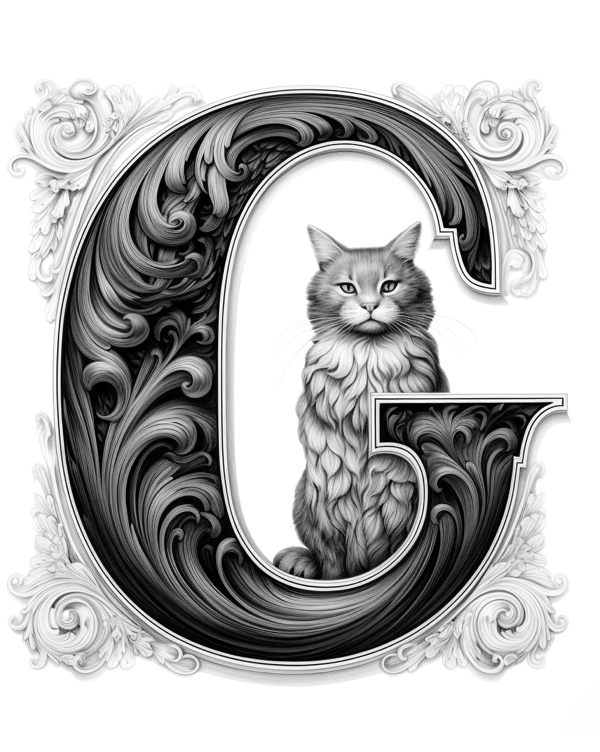
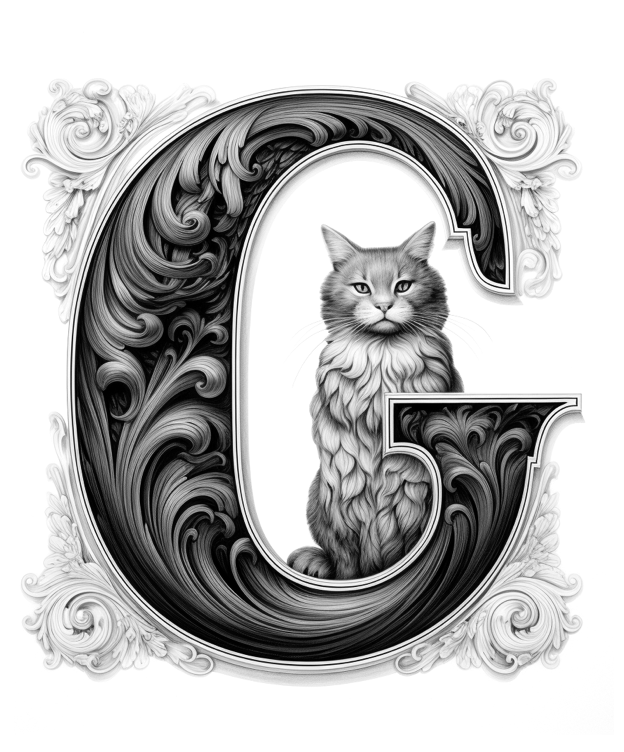
Add G light dropcats

Changed region(s): [[0.0, 0.0918, 0.57, 0.9176], [0.6, 0.0918, 0.96, 0.9176]]

diff --git a/js/head-GENERATED.js b/js/head-GENERATED.js
@@ -3625,5 +3625,25 @@ GW.assetVersions = {
 	"/static/font/drop-cap/dropcat/light/C-4-small-1x.png": "1698101189",
 	"/static/font/drop-cap/dropcat/light/C-4-small-2x.png": "1698101189",
 	"/static/font/drop-cap/dropcat/light/C-5-small-1x.png": "1697741351",
-	"/static/font/drop-cap/dropcat/light/C-5-small-2x.png": "1697741351"
+	"/static/font/drop-cap/dropcat/light/C-5-small-2x.png": "1697741351",
+	"/static/font/drop-cap/dropcat/light/G-1-small-1x.png": "1698132107",
+	"/static/font/drop-cap/dropcat/light/G-1-small-2x.png": "1698132108",
+	"/static/font/drop-cap/dropcat/light/G-10-small-1x.png": "1698132111",
+	"/static/font/drop-cap/dropcat/light/G-10-small-2x.png": "1698132111",
+	"/static/font/drop-cap/dropcat/light/G-2-small-1x.png": "1698132108",
+	"/static/font/drop-cap/dropcat/light/G-2-small-2x.png": "1698132107",
+	"/static/font/drop-cap/dropcat/light/G-3-small-1x.png": "1698132108",
+	"/static/font/drop-cap/dropcat/light/G-3-small-2x.png": "1698132109",
+	"/static/font/drop-cap/dropcat/light/G-4-small-1x.png": "1698132109",
+	"/static/font/drop-cap/dropcat/light/G-4-small-2x.png": "1698132109",
+	"/static/font/drop-cap/dropcat/light/G-5-small-1x.png": "1698132110",
+	"/static/font/drop-cap/dropcat/light/G-5-small-2x.png": "1698132110",
+	"/static/font/drop-cap/dropcat/light/G-6-small-1x.png": "1698132111",
+	"/static/font/drop-cap/dropcat/light/G-6-small-2x.png": "1698132111",
+	"/static/font/drop-cap/dropcat/light/G-7-small-1x.png": "1698132111",
+	"/static/font/drop-cap/dropcat/light/G-7-small-2x.png": "1698132111",
+	"/static/font/drop-cap/dropcat/light/G-8-small-1x.png": "1698132111",
+	"/static/font/drop-cap/dropcat/light/G-8-small-2x.png": "1698132111",
+	"/static/font/drop-cap/dropcat/light/G-9-small-1x.png": "1698132111",
+	"/static/font/drop-cap/dropcat/light/G-9-small-2x.png": "1698132111"
 };

diff --git a/js/asset-versions-GENERATED.js b/js/asset-versions-GENERATED.js
@@ -59,5 +59,25 @@ GW.assetVersions = {
 	"/static/font/drop-cap/dropcat/light/C-4-small-1x.png": "1698101189",
 	"/static/font/drop-cap/dropcat/light/C-4-small-2x.png": "1698101189",
 	"/static/font/drop-cap/dropcat/light/C-5-small-1x.png": "1697741351",
-	"/static/font/drop-cap/dropcat/light/C-5-small-2x.png": "1697741351"
+	"/static/font/drop-cap/dropcat/light/C-5-small-2x.png": "1697741351",
+	"/static/font/drop-cap/dropcat/light/G-1-small-1x.png": "1698132107",
+	"/static/font/drop-cap/dropcat/light/G-1-small-2x.png": "1698132108",
+	"/static/font/drop-cap/dropcat/light/G-10-small-1x.png": "1698132111",
+	"/static/font/drop-cap/dropcat/light/G-10-small-2x.png": "1698132111",
+	"/static/font/drop-cap/dropcat/light/G-2-small-1x.png": "1698132108",
+	"/static/font/drop-cap/dropcat/light/G-2-small-2x.png": "1698132107",
+	"/static/font/drop-cap/dropcat/light/G-3-small-1x.png": "1698132108",
+	"/static/font/drop-cap/dropcat/light/G-3-small-2x.png": "1698132109",
+	"/static/font/drop-cap/dropcat/light/G-4-small-1x.png": "1698132109",
+	"/static/font/drop-cap/dropcat/light/G-4-small-2x.png": "1698132109",
+	"/static/font/drop-cap/dropcat/light/G-5-small-1x.png": "1698132110",
+	"/static/font/drop-cap/dropcat/light/G-5-small-2x.png": "1698132110",
+	"/static/font/drop-cap/dropcat/light/G-6-small-1x.png": "1698132111",
+	"/static/font/drop-cap/dropcat/light/G-6-small-2x.png": "1698132111",
+	"/static/font/drop-cap/dropcat/light/G-7-small-1x.png": "1698132111",
+	"/static/font/drop-cap/dropcat/light/G-7-small-2x.png": "1698132111",
+	"/static/font/drop-cap/dropcat/light/G-8-small-1x.png": "1698132111",
+	"/static/font/drop-cap/dropcat/light/G-8-small-2x.png": "1698132111",
+	"/static/font/drop-cap/dropcat/light/G-9-small-1x.png": "1698132111",
+	"/static/font/drop-cap/dropcat/light/G-9-small-2x.png": "1698132111"
 };

diff --git a/include/inlined-head.html b/include/inlined-head.html
@@ -912,5 +912,5 @@ a[data-link-icon-type*='svg'] .link-icon-hook::after {
 }
 </style>
 <link rel="stylesheet" href="/static/css/head.css?v=1698098928">
-<script src="/static/js/head.js?v=1698120252"></script>
+<script src="/static/js/head.js?v=1698132188"></script>
 <link rel="preload" href="/static/img/icon/icons.svg?v=1698021605" as="image">
